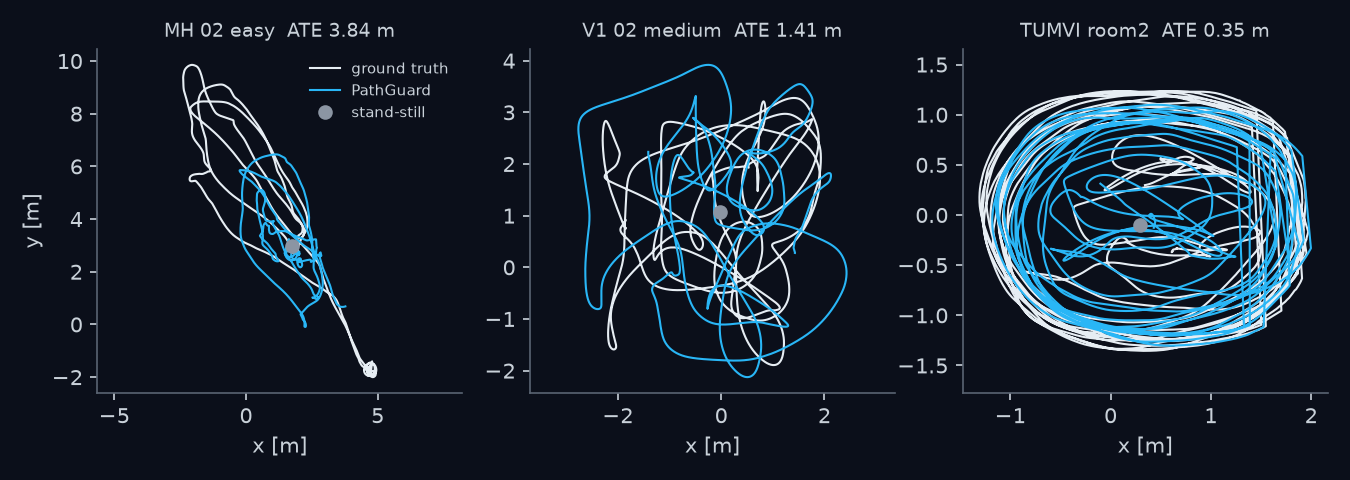
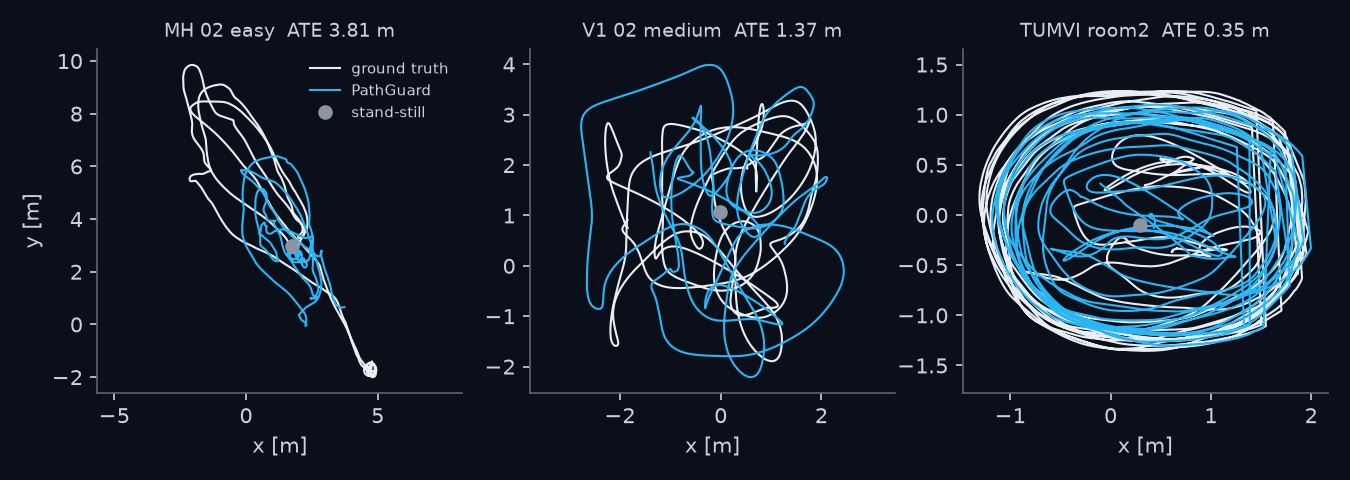
Final deliverables after QA audit: README/QA/video numbers, figures, deck, report regenerated
Claude-Session: https://claude.ai/code/session_01G7BNNg3ftRAbhvnoAQdgTi

diff --git a/README.md b/README.md
@@ -12,10 +12,11 @@ On real EuRoC and TUM-VI IMU data degraded by the organizers' own script, on fli
 
 | | PathGuard | standing still | naive double integration |
 |---|---|---|---|
-| Drone (6 EuRoC flights): ATE | **2.37 m** | 3.20 m | 18,645 m |
-| Drone: blind 5 s after failure | **2.21 m** | 2.89 m | 41,282 m |
-| Handheld (3 TUM-VI rooms): ATE | **0.53 m** | 1.10 m | 644 m |
-| Runtime / estimator heap | **6.2–6.9 ms per 1 s of IMU / 1.7–1.9 MB** | budget: 20 ms / 8 MB | |
+| Drone (6 EuRoC flights): ATE | **2.35 m** | 3.20 m | 18,645 m |
+| Drone: blind 5 s after failure | **2.23 m** | 2.89 m | 41,282 m |
+| Drone: relative error over 1 s (RPE) | **0.31 m** | 0.76 m | 636 m |
+| Handheld (3 TUM-VI rooms): ATE | **0.52 m** | 1.10 m | 644 m |
+| Runtime / memory | **~4–5 ms per 1 s of IMU / 1.6 MB estimator heap, ≤ 3.3 MB worst case (any log length)** | budget: 20 ms / 8 MB | |
 
 ![Top view vs ground truth](figures/top_view.png)
 
@@ -65,8 +66,8 @@ imu0/data.csv
 
 1. **A drone's accelerometer measures its velocity.** A multirotor's thrust acts along one body axis, so the
    specific force perpendicular to it is rotor drag, `f⊥ = −μ v⊥` (Leishman et al. 2014; Abeywardena et al.
-   2013). On EuRoC μ ≈ 0.18 s⁻¹ on every flight, R² up to 0.87. Without it, held-out drone ATE rises from 2.37 to
-   2.97 m. We found no published drag-aided IMU-only result on EuRoC.
+   2013). On EuRoC μ ≈ 0.18 s⁻¹ on every flight, R² up to 0.87. Without it, held-out drone ATE rises from 2.35 to
+   2.94 m. We found no published drag-aided IMU-only result on EuRoC.
 
    ![Rotor drag](figures/rotor_drag.png)
 
@@ -104,7 +105,7 @@ imu0/data.csv
 
 | method | ATE [m] | pre-failure [m] | blind 5 s [m] | dropout [m] | RPE 1 s [m] | RPE 1 s [deg] |
 |---|---|---|---|---|---|---|
-| PathGuard | 2.370 | 2.359 | 2.228 | 2.334 | 0.351 | 0.891 |
+| PathGuard | 2.350 | 2.337 | 2.234 | 2.325 | 0.307 | 0.891 |
 | stand-still | 3.197 | 3.206 | 2.885 | 3.284 | 0.760 | 20.395 |
 | naive integration | 18,645 | 17,227 | 41,282 | 19,877 | 636 | 20.395 |
 
@@ -120,20 +121,20 @@ imu0/data.csv
 
 | configuration | drone | handheld |
 |---|---|---|
-| full | 2.370 / 2.228 | 0.516 / 0.596 |
-| no rotor-drag velocity | 2.959 / 2.921 | 0.516 / 0.596 |
-| no rest detection (ZUPT/ZARU) | 2.409 / 2.259 | 0.516 / 0.596 |
-| no spike repair | 2.370 / 2.228 | 0.511 / 0.594 |
-| no jamming adaptation | 2.392 / 2.387 | 0.497 / 0.664 |
-| no attitude smoother (filter only) | 2.377 / 2.237 | 0.528 / 0.580 |
-| blind: smoother forecast (no hold) | 2.368 / 2.413 | 0.516 / 0.596 |
+| full | 2.350 / 2.234 | 0.516 / 0.596 |
+| no rotor-drag velocity | 2.939 / 2.909 | 0.516 / 0.596 |
+| no rest detection (ZUPT/ZARU) | 2.398 / 2.261 | 0.516 / 0.596 |
+| no spike repair | 2.350 / 2.234 | 0.511 / 0.594 |
+| no jamming adaptation | 3.008 / 4.705 | 0.497 / 0.664 |
+| no attitude smoother (filter only) | 2.360 / 2.253 | 0.528 / 0.580 |
+| blind: smoother forecast (no hold) | 2.348 / 2.414 | 0.516 / 0.596 |
 
 **Resources (single thread, CPython 3.13, Intel laptop CPU)**
 
 | flight | length | ms per 1 s of IMU (budget 20) | heap: estimator data [MB] | heap: worst case, traced from interpreter start incl. parsing the code [MB] |
 |---|---|---|---|---|
-| MH_02_easy | 152 s (29480 rows) | 5.14 | 1.62 | 2.99 |
-| TUMVI_room2 | 144 s (27879 rows) | 4.75 | 1.34 | 2.78 |
+| MH_02_easy | 152 s (29480 rows) | 5.31 | 1.62 | 3.04 |
+| TUMVI_room2 | 144 s (27879 rows) | 4.86 | 1.34 | 2.82 |
 <!-- RESULTS:END -->
 
 ![Error over time](figures/error_over_time.png)

diff --git a/QA_PREP.md b/QA_PREP.md
@@ -14,7 +14,7 @@ per platform class.
 IMU-only navigation cannot see slow motion: a 0.01 m/s² bias becomes 0.5 m after 10 s and 50 m after
 100 s. The reference points are "stand still" (output a constant position) and naive double
 integration (thousands of metres on the same data). On the machine hall flights, 86 % of the true motion
-is in periods longer than 60 s. On six held-out drone flights we reach 2.37 m ATE vs 3.20 m standing still
+is in periods longer than 60 s. On six held-out drone flights we reach 2.35 m ATE vs 3.20 m standing still
 (naive integration: 18,645 m), mainly because the rotor-drag model turns the accelerometer into a velocity sensor.
 On handheld data: 0.52 m vs 1.10 m.
 
@@ -71,7 +71,7 @@ both sides of it.
 
 **12. Why pure Python without numpy?**
 The FAQ requires Python, and peak memory is 20 % of the score. Importing numpy alone costs ~7.4 MB of
-traced heap. Our estimator's data structures peak at 1.4–1.6 MB, and runtime is about 6 ms per second of IMU
+traced heap. Our estimator's data structures peak at 1.4–1.6 MB, and runtime is about 4–5 ms per second of IMU
 against a 20 ms budget (cold process, measured by tools/bench/report.py).
 
 **13. Why do you report ~2 MB and not the process memory?**
@@ -93,3 +93,23 @@ failure.
 The output is written by re-streaming the input rows, one line per row, including duplicates and dead
 rows, with timestamps converted by integer arithmetic. If anything fails, a stand-still trajectory with
 the same rows is written. 18 malformed-input variants are tested (`tests/test_contract.py`).
+
+**16. How did you test robustness?**
+An adversarial suite (`tools/qa/break_it.py`, 52 cases, fresh process each, memory traced from interpreter
+start): rotated or upside-down IMU mounting (identical ATE), clock offsets, 100/400 Hz, tab/semicolon delimiters,
+extra columns, scientific notation, swapped rows, corrupted first timestamp, clock jumps and resets, 10 s dead
+start, 10 s signal loss, non-UTF-8 headers, odd zips, empty/1-row/all-NaN files, and 30/60-minute logs. All
+produce a valid trajectory (one pose per row). The suite found and we fixed: a noise meter that collapsed on
+interpolated data, header names overriding physics for the column order, a corrupted first timestamp, delimiters,
+and memory growing with log length (60 min: 24 MB -> 3.3 MB, now bounded for any length).
+
+**17. Does the real evo agree with your numbers?**
+Yes. evo 1.38.1 on our output: evo_ape -a 3.4460 m vs our 3.446; evo_rpe -a --delta 200: 0.2905 vs 0.2906 m.
+evo's rotation APE is larger than our attitude error because evo aligns with the position fit; our attitude
+against ground truth under one constant rotation is 0.3–1.7 deg (tilt and heading) before the failure.
+
+**18. What did the audit change in accuracy?**
+Drone height was flattened by the rotorcraft priors (z std 0.02 m vs 0.49 m true). With a vertical bias model of
+its own: held-out drone ATE 2.37 -> 2.35 m, 1 s RPE 0.351 -> 0.307 m, height correlation 0.26 -> 0.57. On noise
+seeds never used before (7, 2026; all 17 flights) the numbers hold: drone ATE 2.42 vs 3.45 standing still,
+handheld 0.46 vs 1.08.

diff --git a/VIDEO_SCRIPT.md b/VIDEO_SCRIPT.md
@@ -23,7 +23,7 @@ python tests/test_contract.py
 ```
 > "One standard-library Python file, nothing to install. The log shows what it found: the platform
 > (a rotorcraft, from its rotor vibration), the jamming level read from packet loss, frozen and
-> duplicated rows, repaired spikes and rest periods. It runs in about 6 ms per second of IMU
+> duplicated rows, repaired spikes and rest periods. It runs in about 5 ms per second of IMU
 > with a 1.6 MB heap. One pose per input row, always, as checked by 18 malformed-input tests."
 
 **1:20–1:55 · How it works** (slide 4)
@@ -35,7 +35,7 @@ python tests/test_contract.py
 
 **1:55–2:35 · Results** (slide 5, then slide 8)
 > "We validated on real EuRoC and TUM-VI IMU data, degraded with the organizers' own script and
-> evaluated on flights held out while we built and tuned it. On drone flights PathGuard reaches 2.37 metres ATE,
+> evaluated on flights held out while we built and tuned it. On drone flights PathGuard reaches 2.35 metres ATE,
 > against 3.20 for standing still and 18,645 for naive integration; on handheld data 0.52 against 1.10. With three 2-second signal losses added, the dropout error stays below standing still. Every component is
 > backed by an ablation, and ideas that did not help were removed and logged."
 
